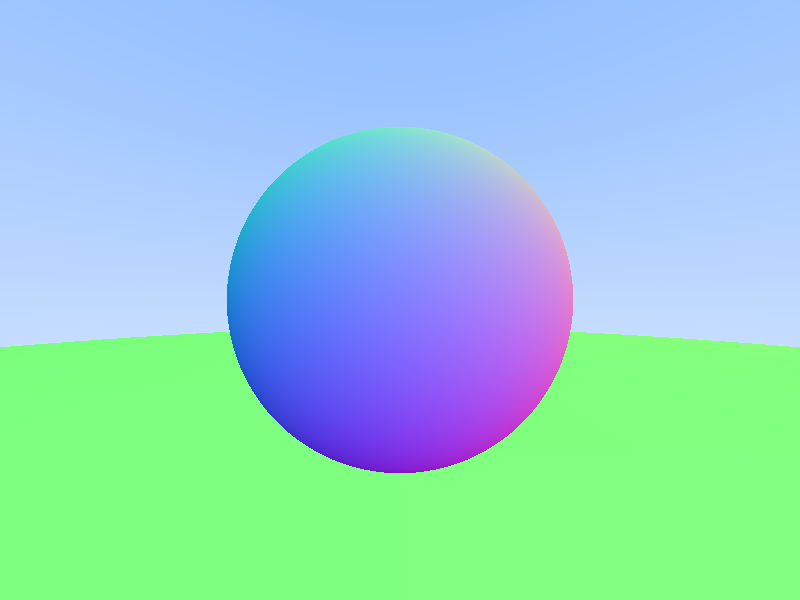
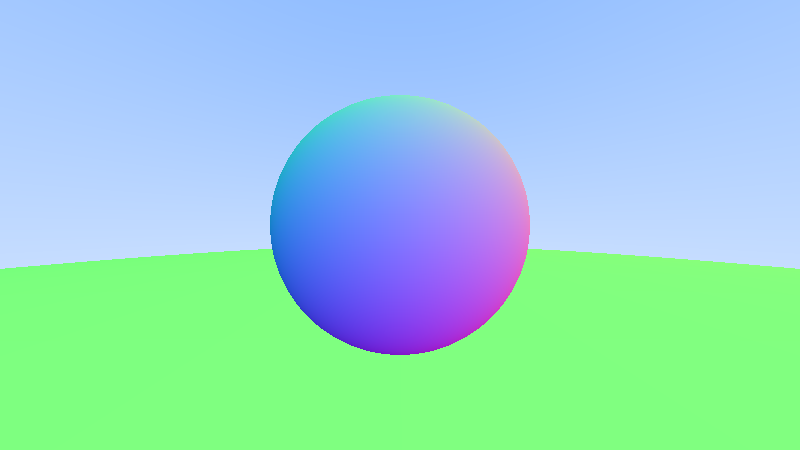
refactor : separate camera code

diff --git a/src/main.cpp b/src/main.cpp
@@ -1,70 +1,25 @@
 #include <iostream>
 
-#include <opencv2/opencv.hpp>
-#include <opencv2/core/matx.hpp>
-#include "opencv2/core/core.hpp"
-
 #include <ray.hpp>
 #include <utils.hpp>
 #include <hittable.hpp>
 #include <sphere.hpp>
+#include <camera.hpp>
 
 int main()
 {
-    double aspect_ratio = 4.0 / 3.0;
-    int img_width = 800;
-
-    // calculate the image height
-    int img_height = static_cast<int>(img_width / aspect_ratio);
-    img_height = (img_height < 1) ? 1 : img_height;
-
     // World
-
     HittableList world;
 
     world.add(std::make_shared<Sphere>(Point3(0, -100.5, -1), 100));
     world.add(std::make_shared<Sphere>(Point3(0, 0, -1), 0.5));
 
-    cv::Mat img(img_height, img_width, CV_8UC3);
+    Camera camera;
+
+    camera.aspect_ratio = 16.0 / 9.0;
+    camera.img_width = 800;
     
-    double focal_length = 1.0;
-    double view_pt_height = 2.0;
-    double view_pt_width = view_pt_height * (static_cast<double>(img_width) / img_height);
-
-    std::cout << "view_pt_width: " << view_pt_width << std::endl; 
-
-    // Calculate the vectors across the horizontal and down the vertical viewport edges.
-    auto view_pt_u = cv::Vec3d(view_pt_width, 0, 0);
-    auto view_pt_v = cv::Vec3d(0, -view_pt_height, 0);
-
-    // Calculate the horizontal and vertical delta vectors from pixel to pixel.
-    auto pixel_delta_u = view_pt_u / img_width;
-    auto pixel_delta_v = view_pt_v / img_height;
-
-    // Calculate the location of the upper left pixel.
-    cv::Vec3d camera_center(0, 0, 0);
-    auto view_pt_upper_left = camera_center - cv::Vec3d(0, 0, focal_length) - view_pt_u/2 - view_pt_v/2;
-
-    auto pixel00_loc = view_pt_upper_left + 0.5 * (pixel_delta_u + pixel_delta_v);
-
-    for (int j = 0; j < img_height; j++) {
-        for (int i = 0; i < img_width; i++) {
-            auto pixel_center = pixel00_loc + (i * pixel_delta_u) + (j * pixel_delta_v);
-            auto ray_direction = pixel_center - camera_center;
-            Ray ray(camera_center, ray_direction);
-
-            // Color pixel_color = ray_color(ray);
-            Color pixel_color = ray_color(ray, world);
-
-            int ir = static_cast<int>(255.99 * pixel_color[0]);
-            int ig = static_cast<int>(255.99 * pixel_color[1]);
-            int ib = static_cast<int>(255.99 * pixel_color[2]);
-
-            img.at<cv::Vec3b>(j, i) = cv::Vec3b(ib, ig, ir);
-        }
-    }
-
-    cv::imwrite("/workspace/output/world.png", img);
+    camera.render(world);
 
     return 0;
 }

diff --git a/src/camera.cpp b/src/camera.cpp
@@ -1,0 +1,71 @@
+#include <iostream>
+
+#include <utils.hpp>
+#include <camera.hpp>
+
+void Camera::render(const Hittable& world)
+{
+    initialize();
+
+    cv::Mat img(_img_height, img_width, CV_8UC3);
+
+    for (int j = 0; j < _img_height; j++) {
+        for (int i = 0; i < img_width; i++) {
+            auto pixel_center = _pixel00_loc + (i * _pixel_delta_u) + (j * _pixel_delta_v);
+            auto ray_direction = pixel_center - _camera_center;
+            Ray ray(_camera_center, ray_direction);
+
+            // Color pixel_color = ray_color(ray);
+            Color pixel_color = ray_color(ray, world);
+
+            int ir = static_cast<int>(255.99 * pixel_color[0]);
+            int ig = static_cast<int>(255.99 * pixel_color[1]);
+            int ib = static_cast<int>(255.99 * pixel_color[2]);
+
+            img.at<cv::Vec3b>(j, i) = cv::Vec3b(ib, ig, ir);
+        }
+    }
+
+    cv::imwrite("/workspace/output/world.png", img);
+}
+
+void Camera::initialize()
+{
+    // calculate the image height
+    _img_height = static_cast<int>(img_width / aspect_ratio);
+    _img_height = (_img_height < 1) ? 1 : _img_height;
+
+    _camera_center = Point3(0, 0, 0);
+
+    // determine viewport dimensions
+    double focal_length = 1.0;
+    double view_pt_height = 2.0;
+    double view_pt_width = view_pt_height * (static_cast<double>(img_width) / _img_height);
+
+    std::cout << "view_pt_width: " << view_pt_width << std::endl; 
+
+    // Calculate the vectors across the horizontal and down the vertical viewport edges.
+    auto view_pt_u = cv::Vec3d(view_pt_width, 0, 0);
+    auto view_pt_v = cv::Vec3d(0, -view_pt_height, 0);
+
+    // Calculate the horizontal and vertical delta vectors from pixel to pixel.
+    _pixel_delta_u = view_pt_u / img_width;
+    _pixel_delta_v = view_pt_v / _img_height;
+
+    // Calculate the location of the upper left pixel.
+    
+    auto view_pt_upper_left = _camera_center - cv::Vec3d(0, 0, focal_length) - view_pt_u/2 - view_pt_v/2;
+
+    _pixel00_loc = view_pt_upper_left + 0.5 * (_pixel_delta_u + _pixel_delta_v);
+}
+
+Color Camera::ray_color(const Ray& ray, const Hittable& world) const
+{
+    HitRecord record;
+    if (world.hit(ray, Interval(0, R_INFINITY), record)) {
+        return 0.5 * (record.normal + Color(1, 1, 1));
+    }
+    cv::Vec3d unit_direction = unit_vector(ray.direction());
+    auto a = 0.5 * (unit_direction[1] + 1.0);
+    return (1.0 - a) * Color(1.0, 1.0, 1.0) + a*Color(0.5, 0.7, 1.0);
+}

diff --git a/include/camera.hpp b/include/camera.hpp
@@ -1,0 +1,31 @@
+#ifndef CAMERA_H
+#define CAMERA_H
+
+#include <opencv2/opencv.hpp>
+#include <opencv2/core/matx.hpp>
+#include <opencv2/core/core.hpp>
+
+#include <hittable.hpp>
+
+class Camera {
+
+public:
+    double aspect_ratio = 4.0 / 3.0;
+    int img_width = 800;
+
+    void render(const Hittable& world);
+
+private:
+    int _img_height;
+    Point3 _camera_center;
+    Point3 _pixel00_loc;
+    cv::Vec3d _pixel_delta_u;
+    cv::Vec3d _pixel_delta_v;
+
+    void initialize();
+
+    Color ray_color(const Ray& ray, const Hittable& world) const;
+
+};
+
+#endif

diff --git a/src/utils.cpp b/src/utils.cpp
@@ -26,15 +26,3 @@ double hit_sphere(const cv::Vec3d& center, double radius, const Ray& ray)
         return (-half_b - sqrt(discreminant)) / a;
     }
 }
-
-
-Color ray_color(const Ray& ray, const Hittable& world) 
-{
-    HitRecord record;
-    if (world.hit(ray, Interval(0, R_INFINITY), record)) {
-        return 0.5 * (record.normal + Color(1, 1, 1));
-    }
-    cv::Vec3d unit_direction = unit_vector(ray.direction());
-    auto a = 0.5 * (unit_direction[1] + 1.0);
-    return (1.0 - a) * Color(1.0, 1.0, 1.0) + a*Color(0.5, 0.7, 1.0);
-}

diff --git a/include/utils.hpp b/include/utils.hpp
@@ -8,8 +8,6 @@
 #include <hittable_list.hpp>
 #include <constants.hpp>
 
-Color ray_color(const Ray& r);
-Color ray_color(const Ray& ray, const Hittable& world);
 cv::Vec3d unit_vector(const cv::Vec3d v);
 double hit_sphere(const cv::Vec3d& center, double radius, const Ray& ray);
 inline double degrees_to_radians(double degrees) {
